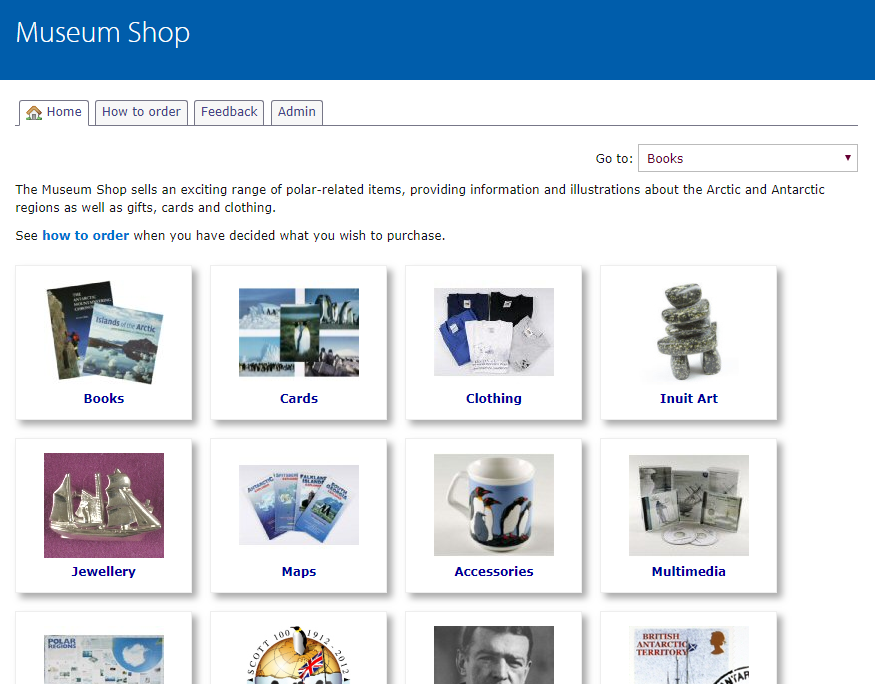
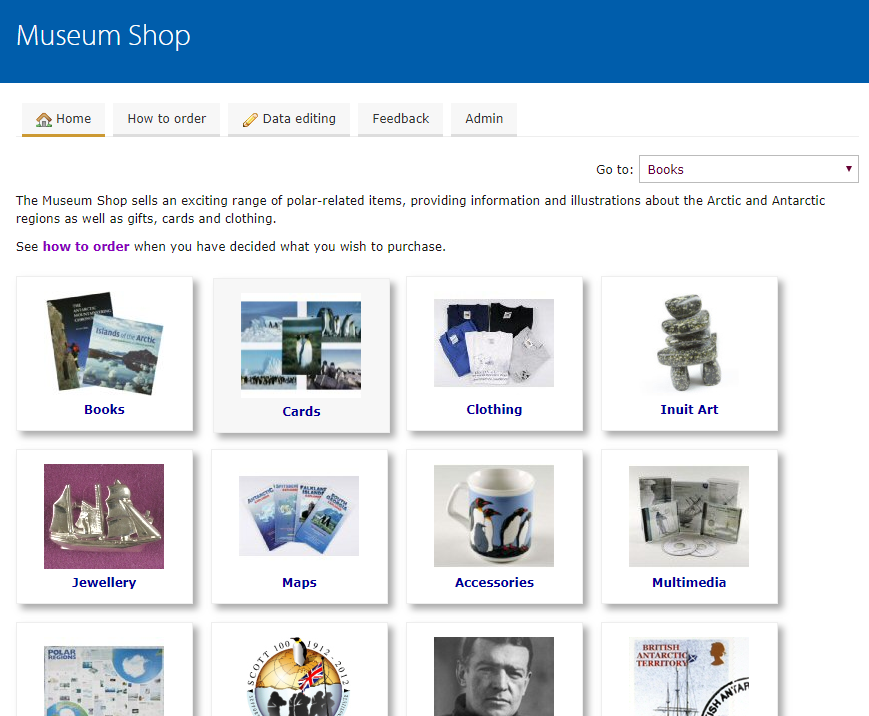
Update tabs class

diff --git a/sprishop.php b/sprishop.php
@@ -31,6 +31,7 @@ class sprishop extends frontControllerApplication
 			'imageGenerationStub'	=> '/images/generator',
 			'showPublisherLinks'	=> true,
 			'imageResizeTo'			=> 200,
+			'tabUlClass'			=> 'tabsflat',
 		);
 		
 		# Return the defaults
@@ -811,7 +812,7 @@ class sprishop extends frontControllerApplication
 	
 	
 	# Function to add grouping tabs
-	private function subtypesTabs ($selected = false, $cssClass = 'tabs small')
+	private function subtypesTabs ($selected = false, $cssClass = 'tabsflat small')
 	{
 		# Create the tabs
 		$tabs = array ();
